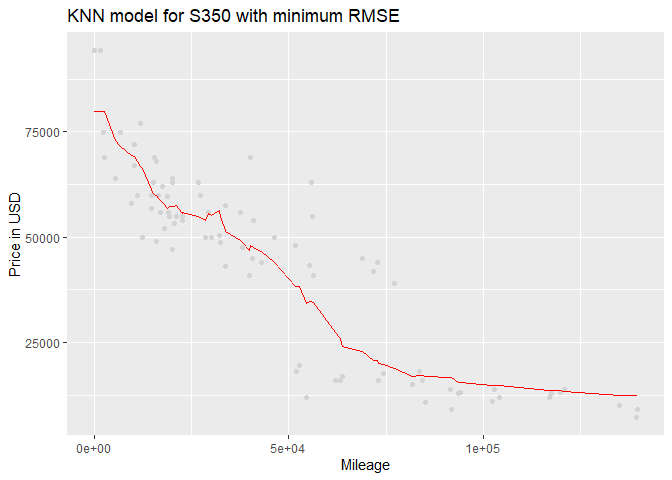
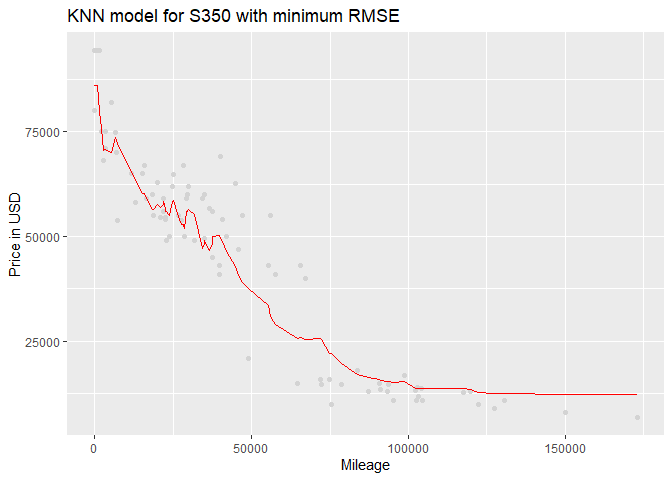
f

diff --git a/Assignment-1.md b/Assignment-1.md
@@ -115,13 +115,13 @@ mileage.
 
 The figure 2.2. shows the series of RMSE at every value of K, the red
 line indicate the k which generate the minimum RMSE. In this case the k
-value is 34. However this value will change any time we generate a new
+value is 17. However this value will change any time we generate a new
 random sample, to decide the best k we repeated the process ten times
 and then we took the average of the minium k.
 
 ### Figure 2.3.
 
-    ## [1] 9642.307
+    ## [1] 8033.326
 
 ![](Assignment-1_files/figure-markdown_strict/unnamed-chunk-13-1.png)
 
@@ -145,7 +145,7 @@ for the S65 AMG class.
 
 The figure 2.5. shows the series of RMSE at every value of K, the red
 line indicate the k which generate the minimum RMSE. In this case the k
-value which minimize the RMSE for S65 AMG trim is 9. However this value
+value which minimize the RMSE for S65 AMG trim is 13. However this value
 will change any time we generate a new random sample, to decide the best
 k we repeated the process ten times and then we took the average of the
 minimum k.
